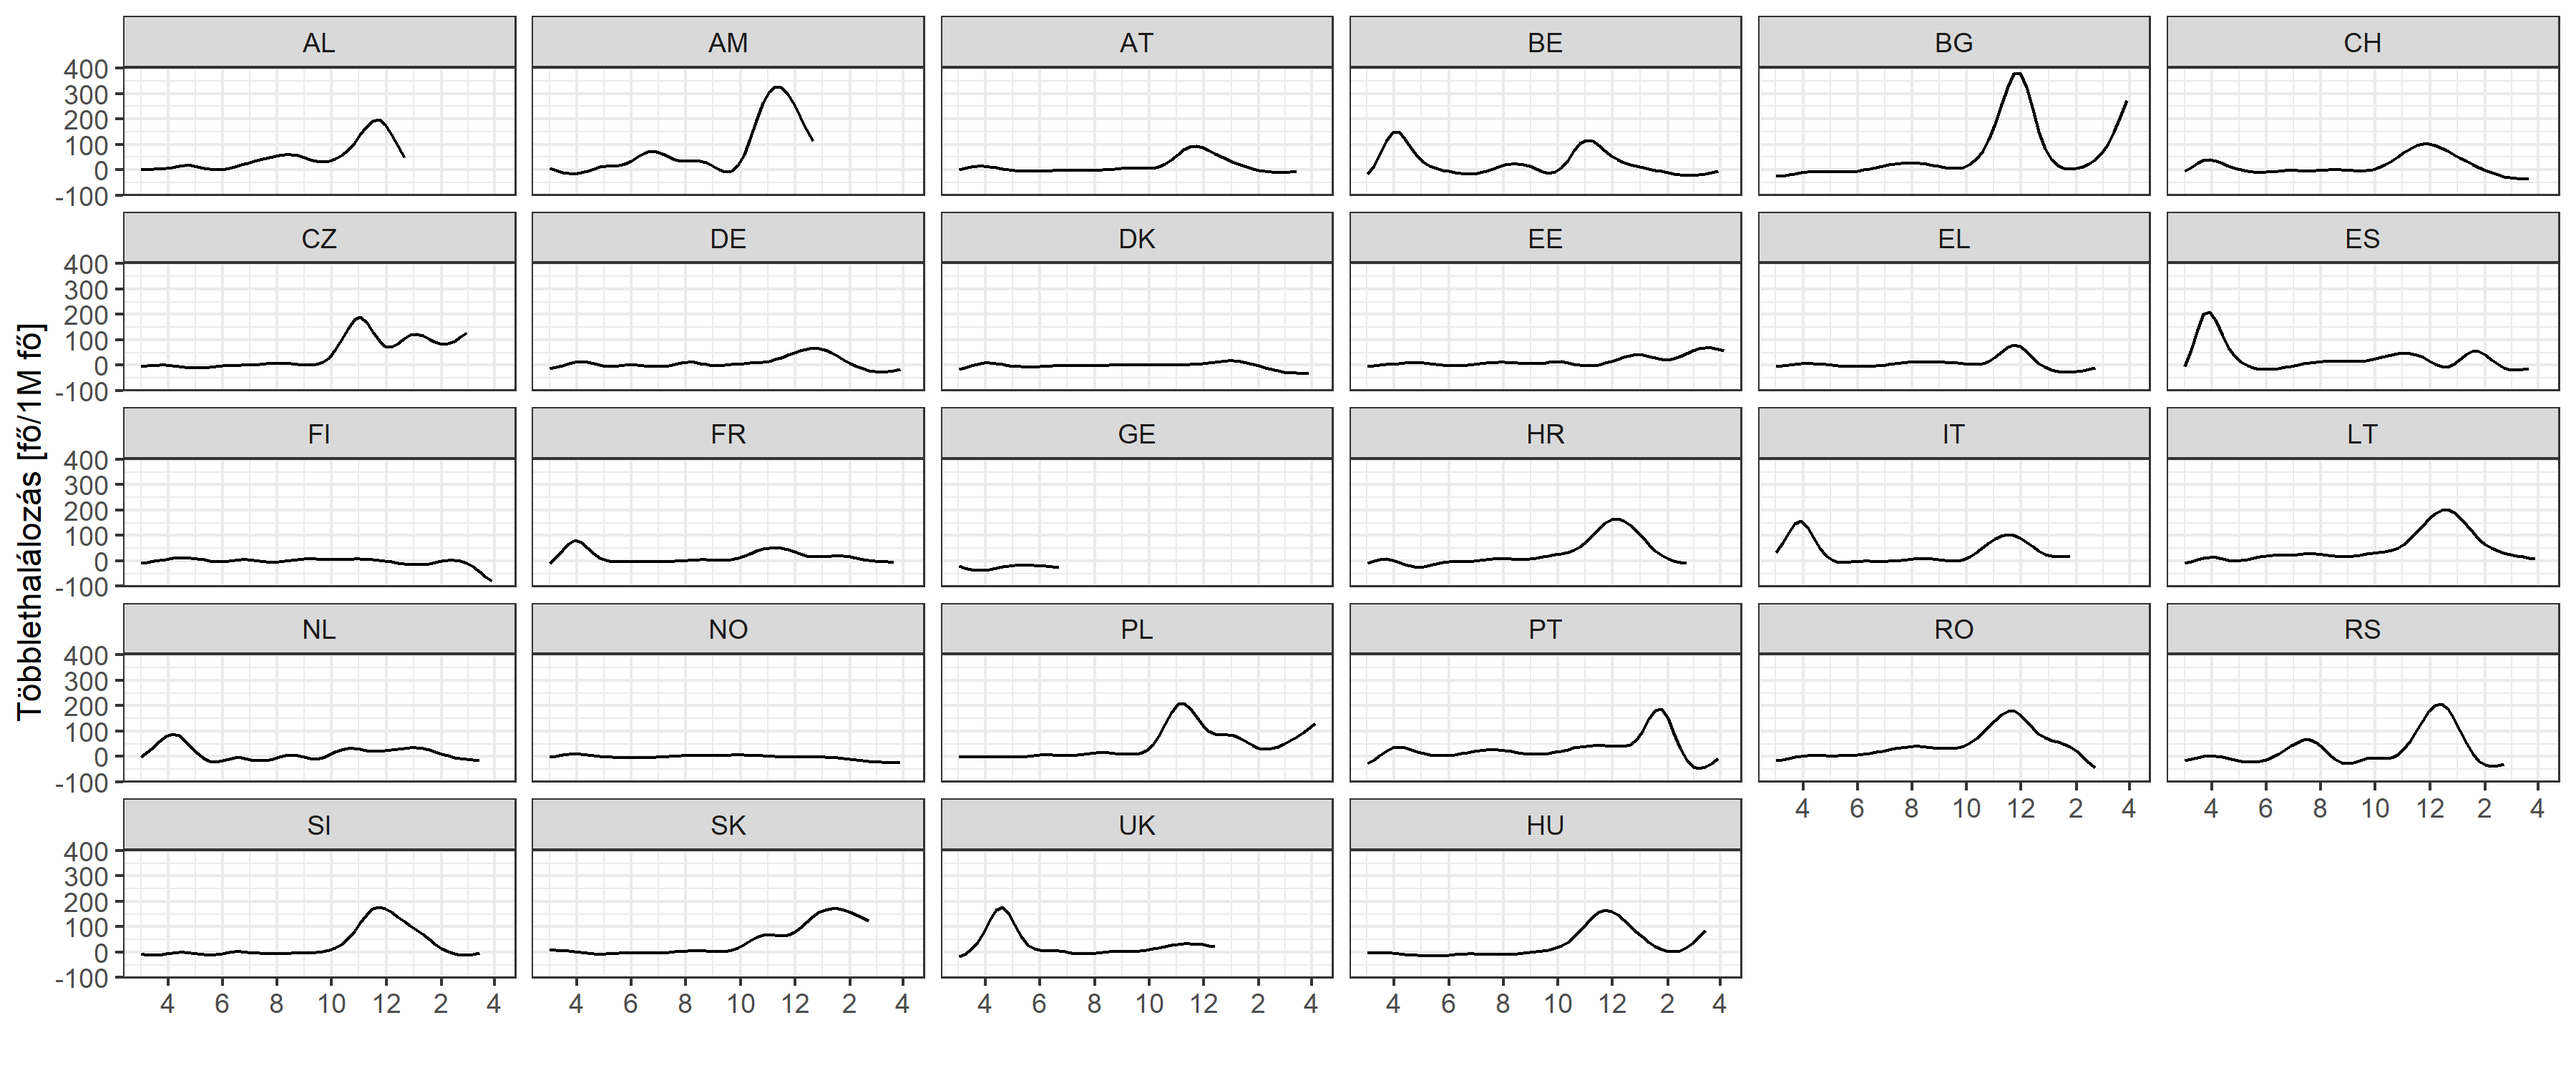
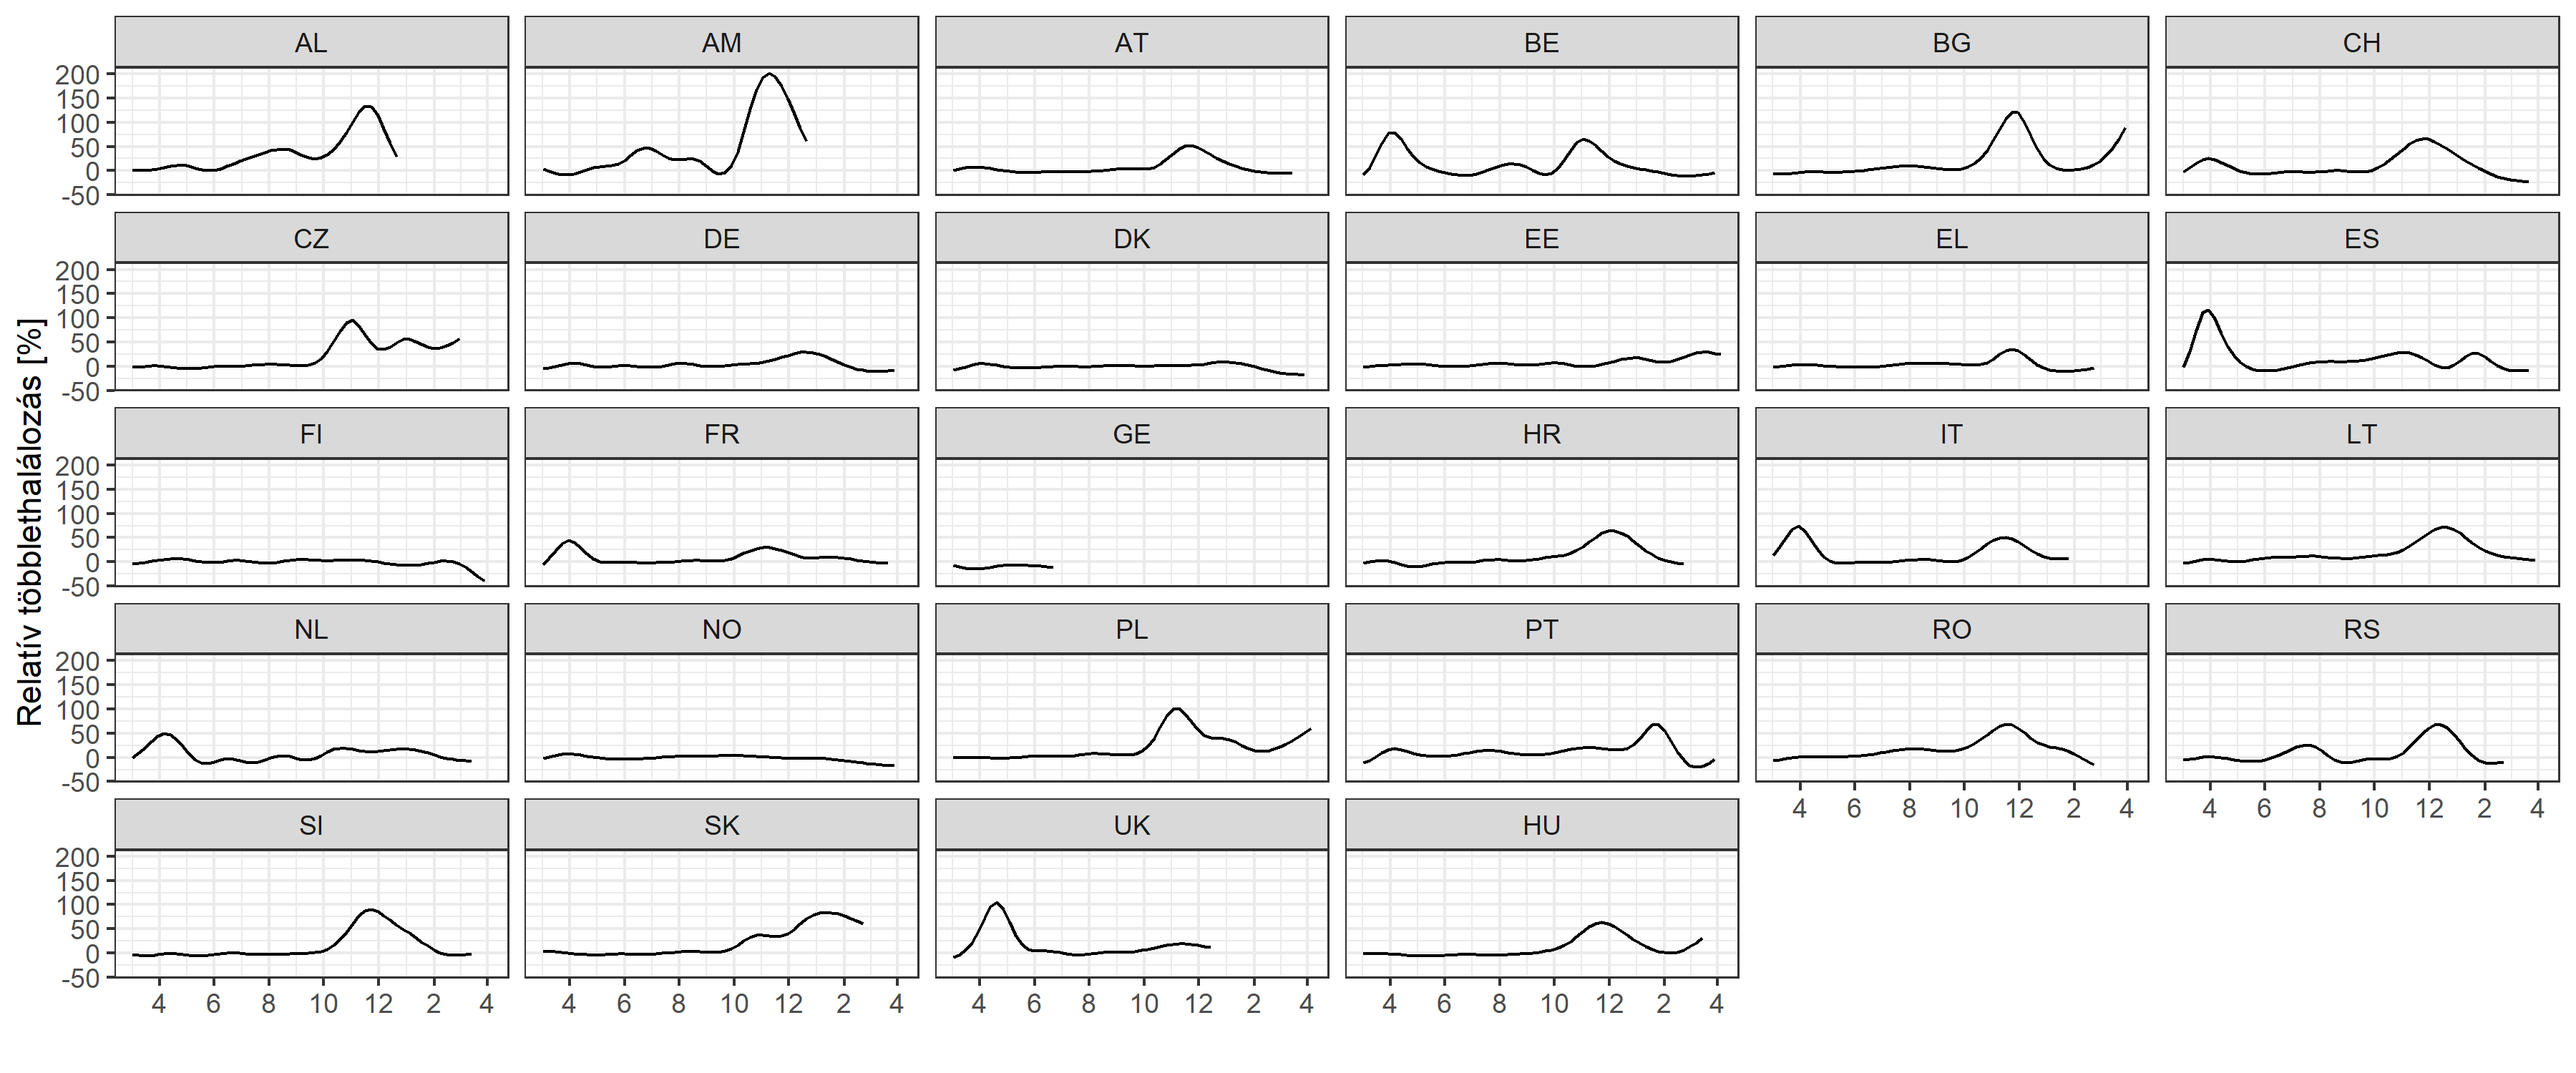
Frissítés.

diff --git a/README.md b/README.md
@@ -431,8 +431,8 @@ Az aktuális többlethalálozás (relatív mutató, korábbi adatokra vetítve):
 ``` r
 ggplot(res, aes(x = date, y = increase, group = geo)) + geom_line(aes(color = geo=="HU")) +
   scale_color_manual(values=c("FALSE" = "gray", "TRUE" = "red")) + guides(col = FALSE) +
-  labs(x = "", y = "Relatív többlethalálozás [%]") + scale_x_date(date_breaks = "months", date_labels = "%b") +
-  theme_bw()
+  labs(x = "", y = "Relatív többlethalálozás [%]") +
+  scale_x_date(date_breaks = "months", date_labels = "%b") + theme_bw()
 ```
 
 ![](README_files/figure-gfm/unnamed-chunk-13-1.png)<!-- -->
@@ -443,8 +443,8 @@ Kicsit direktebben is összevethetjük őket, ha országonként külön-külön
 
 ``` r
 ggplot(res, aes(x = increase, y = excess/population*1e6)) + geom_line() +
-  labs(x = "Relatív többlethalálozás [%]", y = "Többlethalálozás [fő/1M fő]") +  theme_bw() + facet_wrap(~geo) +
-  geom_abline(intercept = 0, slope =  2, alpha = 0.3)
+  labs(x = "Relatív többlethalálozás [%]", y = "Többlethalálozás [fő/1M fő]") +  theme_bw() +
+  facet_wrap(~geo) + geom_abline(intercept = 0, slope =  2, alpha = 0.3)
 ```
 
 ![](README_files/figure-gfm/unnamed-chunk-14-1.png)<!-- -->
@@ -476,8 +476,8 @@ is ábrázolni, hogy jobban látható legyen, az egyes országok hogyan
 teljesítettek a járvány kezelésében, mik a jó és a rossz példák:
 
 ``` r
-ggplot(res, aes(x = date, y = excess/population*1e6, group = geo)) + geom_line() +
-  labs(x = "", y = "Többlethalálozás [fő/1M fő]") +
+ggplot(res, aes(x = date, y = increase, group = geo)) + geom_line() +
+  labs(x = "", y = "Relatív többlethalálozás [%]") +
   scale_x_date(date_breaks = "2 months", labels = function(z) gsub("^0", "", strftime(z, "%m"))) +
   theme_bw() + facet_wrap(~geo)
 ```
@@ -534,6 +534,11 @@ ggplot(res, aes(x = date, y = cumexcess/cumnewdeaths, group = geo)) + geom_line(
 
 ![](README_files/figure-gfm/unnamed-chunk-21-1.png)<!-- -->
 
+Ezen az ábrán a többlet és a jelentett halálozás hányadosa látható, a
+piros vonal jelzi a kettő egyenlőségét, tehát a fölötte lévő érték
+jelenti azt, hogy a többlet meghaladja a jelentett halálozást, az alatta
+lévő azt, hogy kisebb a többlet, mint a jelentett.
+
 Érdekes lehet összevetni a kétféle mutatót az aktuális helyzet szerint
 (a fekete vonal az egyenlőség vonala, ahol a többlethalálozás egyezne a
 jelentett halálozással):
@@ -548,11 +553,20 @@ ggplot(res[,tail(.SD, 1), .(geo)], aes(x = cumexcess/population*1e6,
 
 ![](README_files/figure-gfm/unnamed-chunk-22-1.png)<!-- -->
 
+(Ennél az ábránál és a következőnél nem ugyanaz az időpont van az egyes
+országoknál, hiszen mindegyiknél a saját legrégebbi közölt adata az
+alap.)
+
 Mivel a többlethalálozás utolsó adatai nem véglegesek, ezért korrektebb
-egy régebbi állapotot nézni:
+egy régebbi állapotot nézni, vegyük az egy hónappal megelőzőt (az
+Eurostat
+[adatai](https://ec.europa.eu/eurostat/cache/metadata/en/demomwk_esms.htm#accuracy1612863315336)
+szerint ilyenkor már 90% vagy a fölötti a regisztráltság minden
+országban):
 
 ``` r
-ggplot(res[year==2021&week==1], aes(x = cumexcess/population*1e6, y = cumnewdeaths/population*1e6, label = geo)) +
+ggplot(res[,.SD[nrow(.SD)-4], .(geo)], aes(x = cumexcess/population*1e6,
+                                           y = cumnewdeaths/population*1e6, label = geo)) +
   geom_point(aes(col = geo=="HU")) + geom_abline() + geom_text(hjust = "left", nudge_x = 30) +
   scale_color_manual(values=c("FALSE" = "gray", "TRUE" = "red")) + guides(col = FALSE) +
   labs(x = "Összesített többlethalálozás [fő/1M fő]", y = "Összesített jelentett halálozás [fő/M fő]")
@@ -565,7 +579,7 @@ jelentett (és ahol nem, ott is csak minimális a különbség).
 
 Továbbfejlesztési ötletek:
 
--   Életkori és nemi lebontás. (Hátha mások a mortalitási trendek!)
--   Életkorra és nemre standardizálás.
--   A jelentés teljességének a vizsgálata (mennyire nőnek még az utolsó
-    adatok, és meddig?).
+-   [ ] Életkori és nemi lebontás. (Hátha mások a mortalitási trendek!)
+-   [ ] Életkorra és nemre standardizálás.
+-   [x] A jelentés teljességének a vizsgálata (mennyire nőnek még az
+    utolsó adatok, és meddig?). Válasz: Eurostat metadata 13.1-es pont.
